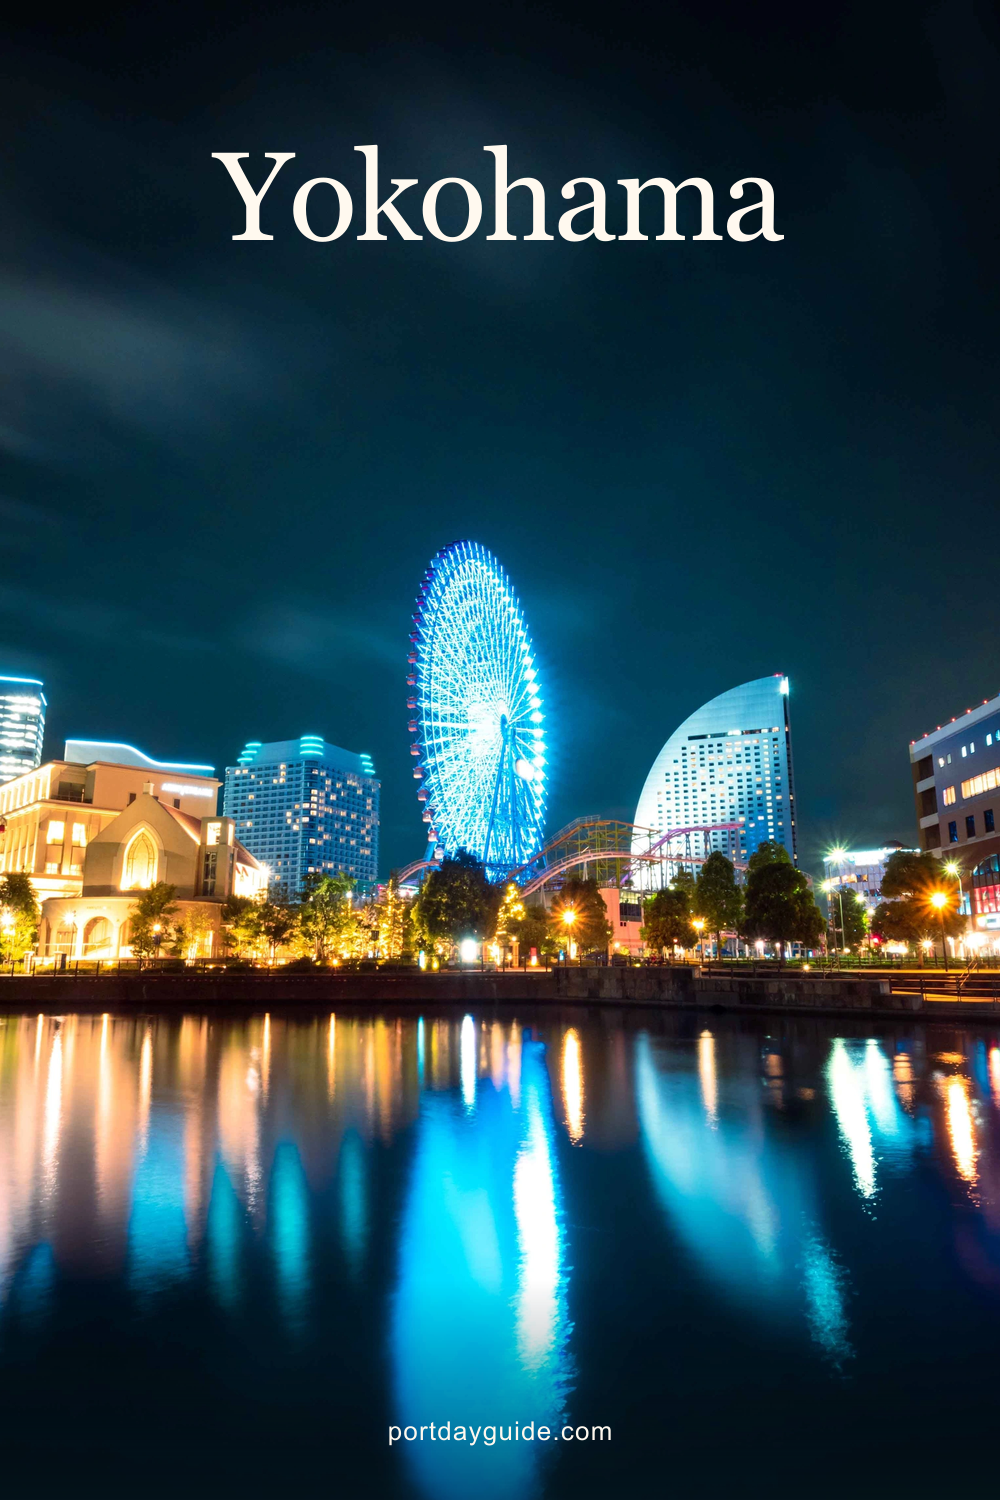
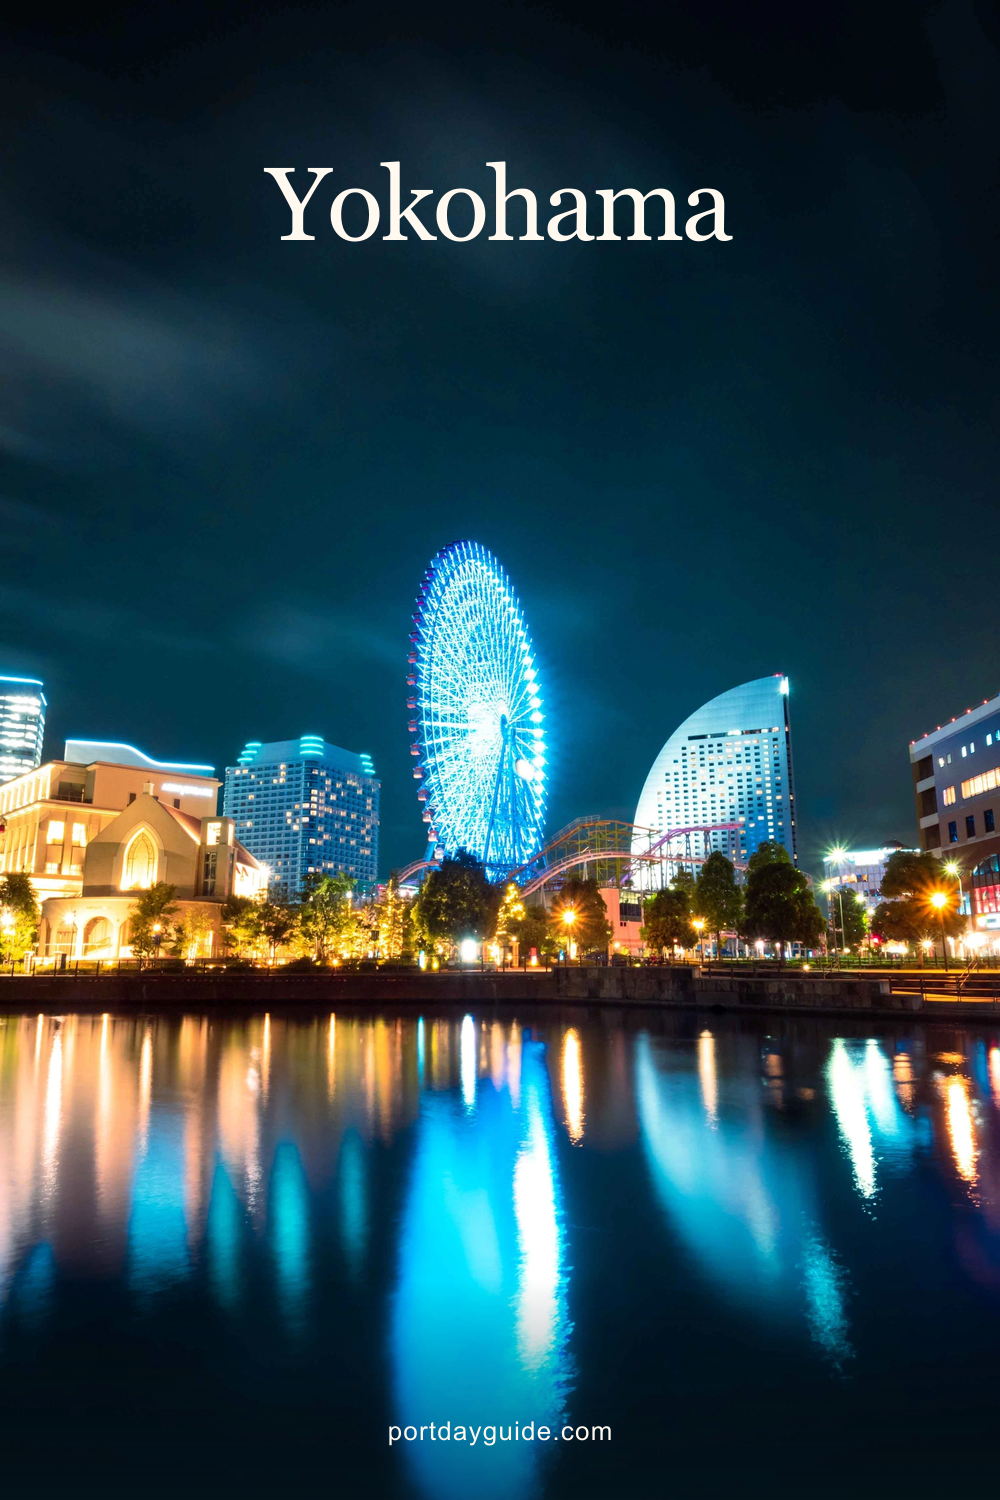
Reduce Pinterest place-name type by one visual step

Changed region(s): [[0.217, 0.092, 0.775, 0.184]]

diff --git a/docs/pinterest-batches/2026-10-31/README.md b/docs/pinterest-batches/2026-10-31/README.md
@@ -43,7 +43,7 @@ Rebuild locally with installed repository dependencies:
 node docs/pinterest-batches/2026-10-31/render.mjs
 ```
 
-The renderer writes only this draft directory. It rejects duplicate live IDs, overlong copy and photo enlargement, decodes every resulting PNG in full, and writes hashes. The two variants per page use different photographs and practical angles in their titles/descriptions. Hooks, instructions and credits appear only in the publishing copy. All six were visually inspected at 1000 x 1500 and in the 300-pixel contact sheet. The large lower text gradients were removed to reveal the scenery; only subtle place-name/footer gradients remain. Place labels are 126-140 px and the website is 26 px. All six final images contain exactly two typeset text elements. Credits and source/license links are checked in the captions, not the image pixels. Asset validation checks full decodes and hashes, six distinct photos/IDs/UTMs, three pages with two angles, unchanged destinations against the earlier draft and a byte-stable eight-item feed. Every factual promise is supported by the destination implementation identified in `pins.json`. No live fare, savings, selected-date availability, first-hand visit or return guarantee is promised.
+The renderer writes only this draft directory. It rejects duplicate live IDs, overlong copy and photo enlargement, decodes every resulting PNG in full, and writes hashes. The two variants per page use different photographs and practical angles in their titles/descriptions. Hooks, instructions and credits appear only in the publishing copy. All six were visually inspected at 1000 x 1500 and in the 300-pixel contact sheet. The large lower text gradients were removed to reveal the scenery; only subtle place-name/footer gradients remain. The November 2 refinement reduces place labels by one visual size step: 126 to 104 px for Yokohama and 140 to 116 px for Cozumel/Mahahual (about 17% smaller). Baselines, alignment, photography, crops, gradients and the 26 px website mark remain unchanged. All six final images contain exactly two typeset text elements. Credits and source/license links are checked in the captions, not the image pixels. Asset validation checks full decodes and hashes, six distinct photos/IDs/UTMs, three pages with two angles, unchanged destinations against the earlier draft and a byte-stable eight-item feed. Every factual promise is supported by the destination implementation identified in `pins.json`. No live fare, savings, selected-date availability, first-hand visit or return guarantee is promised.
 
 ## Publication proposal — held for coordinator review
 

diff --git a/docs/pinterest-batches/2026-10-31/copy-and-sources.md b/docs/pinterest-batches/2026-10-31/copy-and-sources.md
@@ -1,6 +1,6 @@
 # Exact publishing copy and image rights
 
-Six revised scenic drafts, November 1, 2026. No actual Pin URL or publication date exists. Use the original 1000 x 1500 PNGs, not the contact-sheet thumbnails. Each finished image contains only the accurate place name and a small portdayguide.com mark. Useful hooks and photographer attribution appear in the publishing copy below.
+Six revised scenic drafts, November 2, 2026. No actual Pin URL or publication date exists. Use the original 1000 x 1500 PNGs, not the contact-sheet thumbnails. Each finished image contains only the accurate place name and a small portdayguide.com mark. Useful hooks and photographer attribution appear in the publishing copy below.
 
 ## 01 — Cozumel beach pass booked: does it include your taxi?
 
